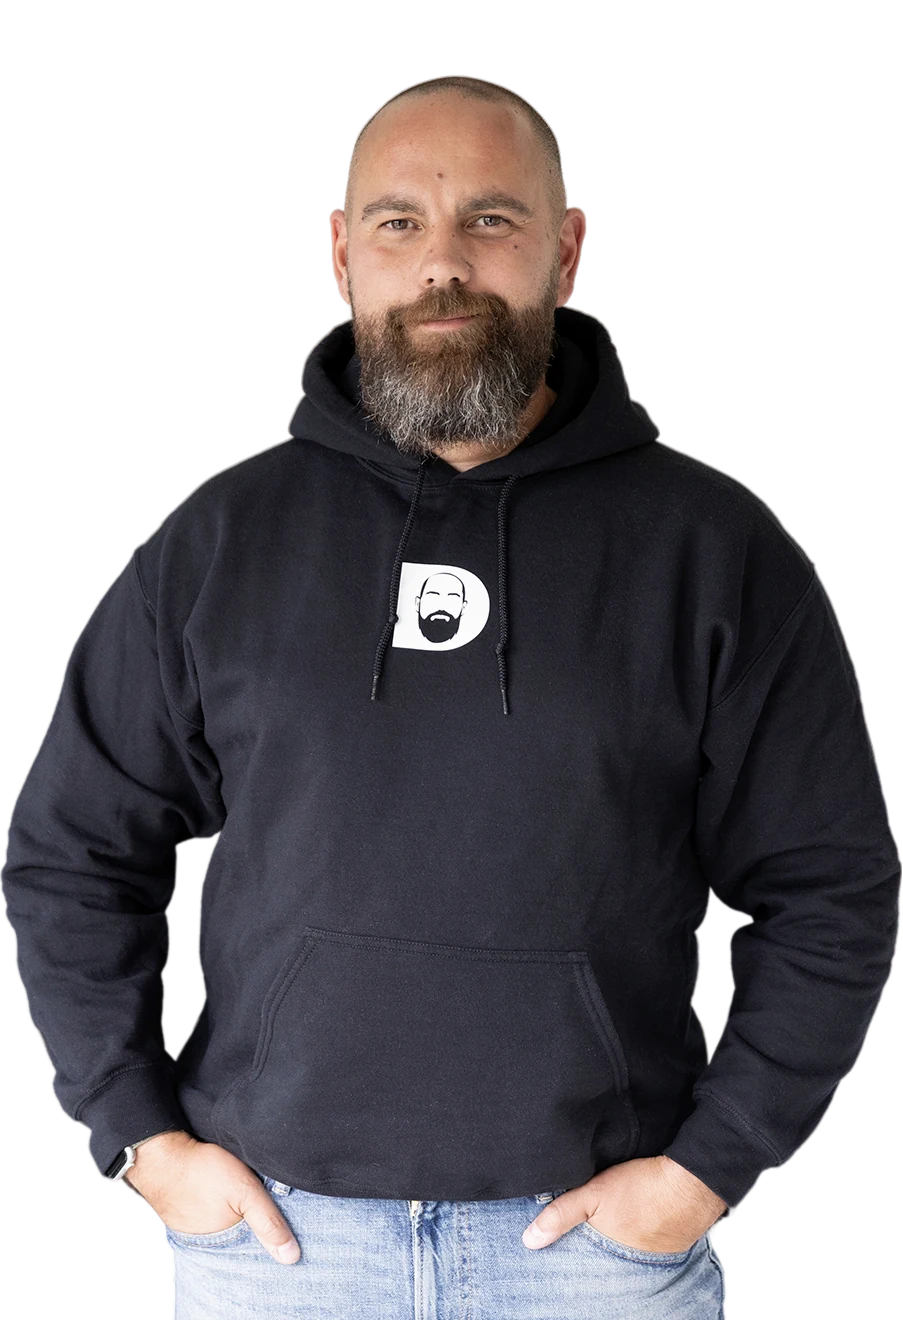
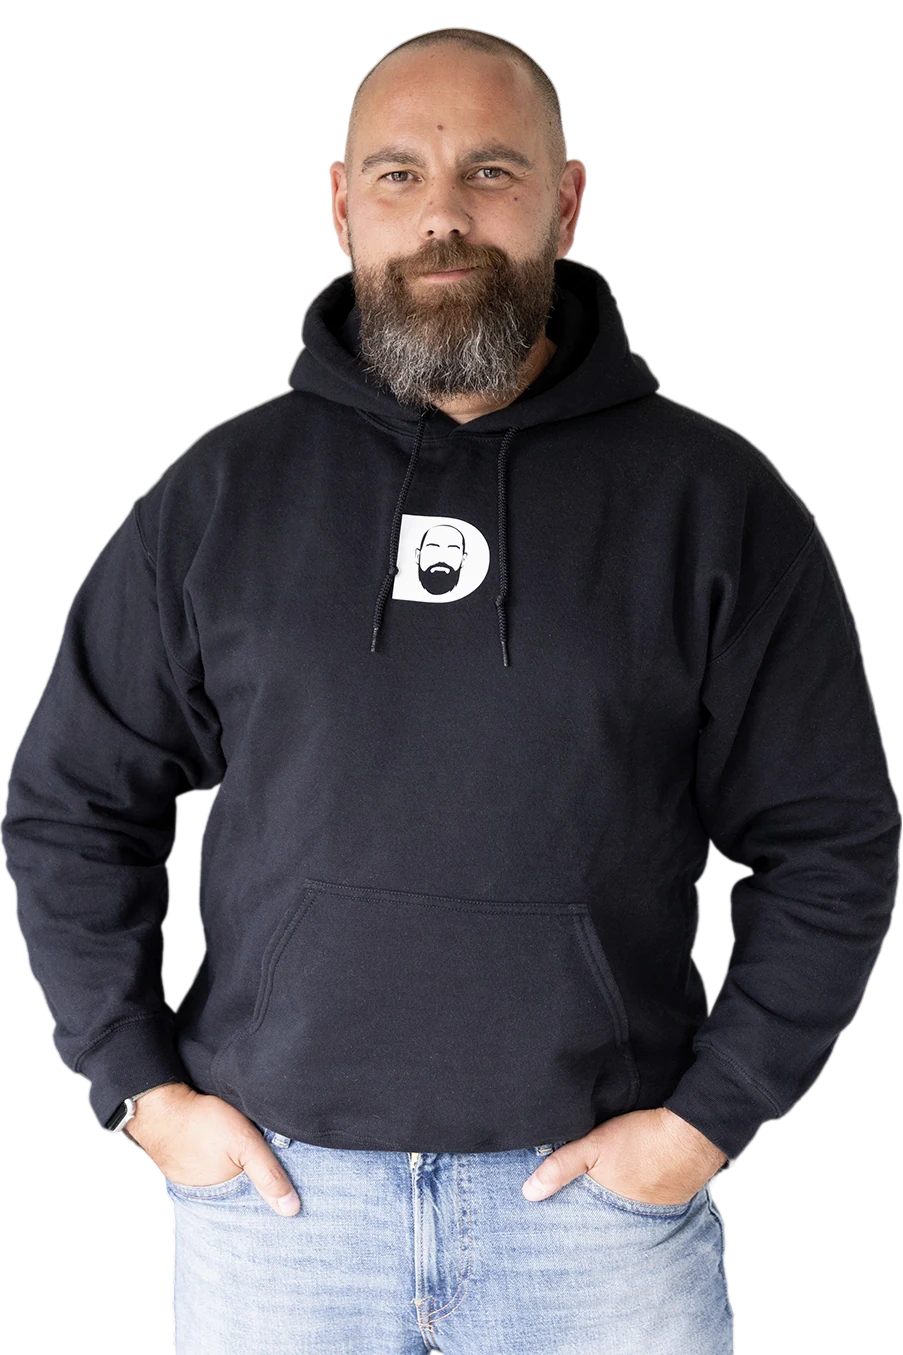
Hero-Freisteller nach Dennis' Linien: Kopf höher + mehr Körper
- Kopf sitzt jetzt auf der Eyebrow-Linie (weniger Kopf-Luft im Bild)
- Mehr Körper gezeigt bis zu den markierten Schnittlinien:
  Über = kurz unter den verschraenkten Armen, Start = unter den Händen + etwas Jeans
- Figur dadurch größer/praesenter
- Tuck final justiert (über -106, start -85) fuer ausgewogene Kasten-Abstaende
- Farbfilter drauf; Desktop endet exakt an der Linie, Mobil zeigt minimal mehr

diff --git a/css/style.css b/css/style.css
@@ -262,8 +262,8 @@ body.nav-locked { overflow: hidden; }
 .stats-tuck, .mein-weg-tuck { position: relative; z-index: 3; margin-top: -1.5rem; }
 /* Desktop: tieferer Tuck fuer ausgewogene Abstaende um den Kasten */
 @media (min-width: 881px) {
-  .mein-weg-tuck { margin-top: -120px; }
-  .stats-tuck { margin-top: -68px; }
+  .mein-weg-tuck { margin-top: -106px; }
+  .stats-tuck { margin-top: -85px; }
 }
 
 /* ============================================================

diff --git a/index.html b/index.html
@@ -136,7 +136,7 @@
     </div>
     <div class="hero__media reveal" data-delay="1">
       <!-- BILD: Dennis Porträt hero_dennis_portrait.webp – freigestellt, transparenter Hintergrund. Aktuell: designj_dennis_jaehring_uebermich.webp -->
-      <img class="portrait-cut" src="images/dennis_hero_start_v2.webp" alt="Dennis Jähring – Inhaber der Werbeagentur DESIGNJ aus Weiden" width="903" height="1320" fetchpriority="high">
+      <img class="portrait-cut" src="images/dennis_hero_start_v2.webp" alt="Dennis Jähring – Inhaber der Werbeagentur DESIGNJ aus Weiden" width="903" height="1355" fetchpriority="high">
     </div>
   </div>
 </section>

diff --git a/ueber-mich.html b/ueber-mich.html
@@ -110,7 +110,7 @@
     </div>
     <div class="hero__media reveal" data-delay="1">
       <!-- BILD: dennis_portrait_main.webp – Hauptporträt Dennis im Container-Büro. Aktuell: freigestelltes Portrait. -->
-      <img class="portrait-cut" src="images/dennis_hero_ueber_v2.webp" alt="Dennis Jähring – Inhaber DESIGNJ, Werbeagentur Weiden" width="701" height="1010">
+      <img class="portrait-cut" src="images/dennis_hero_ueber_v2.webp" alt="Dennis Jähring – Inhaber DESIGNJ, Werbeagentur Weiden" width="701" height="1068">
     </div>
   </div>
 </section>